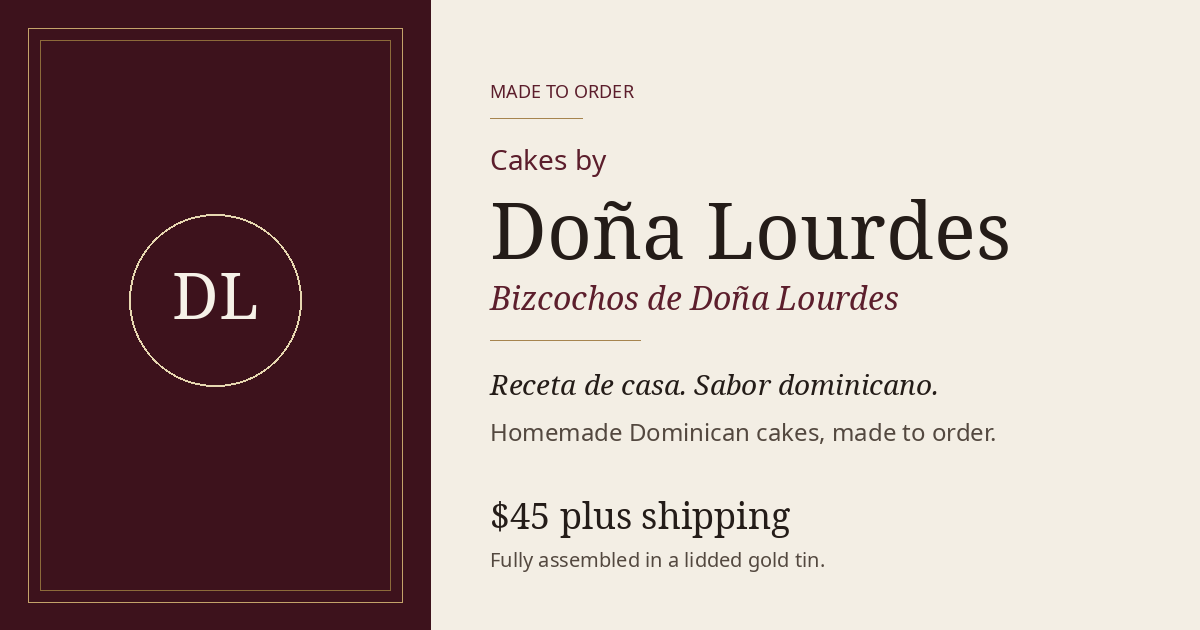
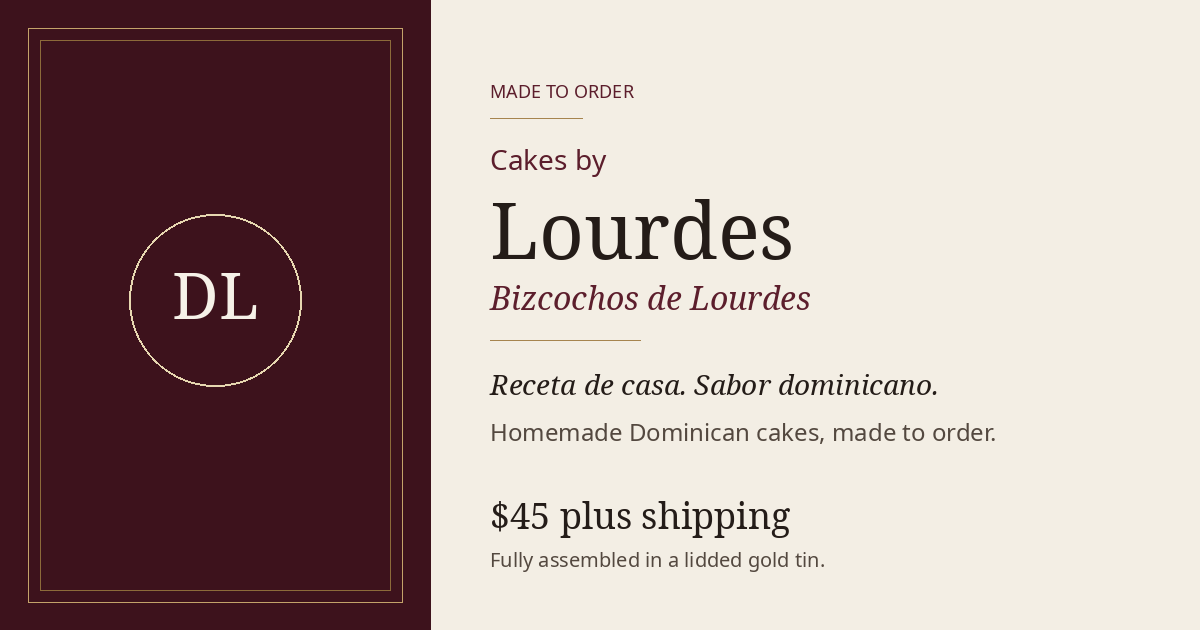
Rename the public brand to Cakes by Lourdes. (#4)
The wordmark, titles, and Bizcochos de Lourdes line use the new brand. Sentences about the baker still say Doña Lourdes.

Changed region(s): [[0.4317, 0.3016, 0.8633, 0.4222], [0.5858, 0.4524, 0.74, 0.5127]]

diff --git a/es/index.html b/es/index.html
@@ -3,7 +3,7 @@
 <head>
   <meta charset="utf-8">
   <meta name="viewport" content="width=device-width, initial-scale=1">
-  <title>Cakes by Doña Lourdes | Bizcochos dominicanos caseros</title>
+  <title>Cakes by Lourdes | Bizcochos dominicanos caseros</title>
   <meta name="description" content="Bizcochos dominicanos caseros, hechos por encargo. Una media libra llega completamente armada en una lata dorada con tapa. $45 más el envío.">
   <link rel="canonical" href="https://cakesbylourdes.salimheyaime.com/es/">
   <link rel="alternate" hreflang="en" href="https://cakesbylourdes.salimheyaime.com/">
@@ -12,19 +12,19 @@
   <meta property="og:type" content="website">
   <meta property="og:locale" content="es_US">
   <meta property="og:locale:alternate" content="en_US">
-  <meta property="og:site_name" content="Cakes by Doña Lourdes">
-  <meta property="og:title" content="Cakes by Doña Lourdes">
+  <meta property="og:site_name" content="Cakes by Lourdes">
+  <meta property="og:title" content="Cakes by Lourdes">
   <meta property="og:description" content="Bizcochos dominicanos caseros, hechos por encargo. Una media libra llega completamente armada en una lata dorada con tapa. $45 más el envío.">
   <meta property="og:url" content="https://cakesbylourdes.salimheyaime.com/es/">
   <meta property="og:image" content="https://cakesbylourdes.salimheyaime.com/og.png">
   <meta property="og:image:width" content="1200">
   <meta property="og:image:height" content="630">
-  <meta property="og:image:alt" content="Cakes by Doña Lourdes, en letra serif sobre una tarjeta color crema y vino. No es una fotografía.">
+  <meta property="og:image:alt" content="Cakes by Lourdes, en letra serif sobre una tarjeta color crema y vino. No es una fotografía.">
   <meta name="twitter:card" content="summary_large_image">
-  <meta name="twitter:title" content="Cakes by Doña Lourdes">
+  <meta name="twitter:title" content="Cakes by Lourdes">
   <meta name="twitter:description" content="Bizcochos dominicanos caseros, hechos por encargo. Una media libra llega completamente armada en una lata dorada con tapa. $45 más el envío.">
   <meta name="twitter:image" content="https://cakesbylourdes.salimheyaime.com/og.png">
-  <meta name="twitter:image:alt" content="Cakes by Doña Lourdes, en letra serif sobre una tarjeta color crema y vino. No es una fotografía.">
+  <meta name="twitter:image:alt" content="Cakes by Lourdes, en letra serif sobre una tarjeta color crema y vino. No es una fotografía.">
   <meta name="theme-color" content="#3d121c">
   <link rel="icon" href="../favicon.svg" type="image/svg+xml">
   <link rel="icon" href="../favicon-32.png" type="image/png" sizes="32x32">
@@ -44,7 +44,7 @@
         <span class="monogram" aria-hidden="true">DL</span>
         <span class="brand-text">
           <span class="brand-kicker"><span class="brand-cakes">Cakes</span> <span class="brand-by">by</span></span>
-          <span class="brand-name">Doña Lourdes</span>
+          <span class="brand-name">Lourdes</span>
         </span>
       </a>
       <nav class="lang-switch" aria-label="Idioma">
@@ -76,9 +76,9 @@
           <p class="eyebrow">Solo entrega y envío</p>
           <h1 id="hero-title">
             <span class="h1-kicker"><span class="h1-cakes">Cakes</span> <span class="h1-by">by</span></span>
-            <span class="h1-name">Doña<br>Lourdes</span>
+            <span class="h1-name">Lourdes</span>
           </h1>
-          <p class="hero-es">Bizcochos de Doña Lourdes</p>
+          <p class="hero-es">Bizcochos de Lourdes</p>
           <div class="rule rule-start" aria-hidden="true"><span></span></div>
           <p class="tagline">
             <span>Receta de casa. Sabor dominicano.</span>
@@ -250,8 +250,8 @@
 
   <footer class="site-footer">
     <div class="wrap footer-inner">
-      <p class="footer-brand">Cakes by Doña Lourdes</p>
-      <p class="footer-es">Bizcochos de Doña Lourdes</p>
+      <p class="footer-brand">Cakes by Lourdes</p>
+      <p class="footer-es">Bizcochos de Lourdes</p>
       <p class="footer-tag">
         <span>Receta de casa. Sabor dominicano.</span>
         <span>Bizcochos dominicanos caseros, hechos por encargo.</span>
@@ -260,7 +260,7 @@
         <a href="/" hreflang="en" lang="en">English</a>
         <a href="/es/" hreflang="es" lang="es" aria-current="page">Español</a>
       </nav>
-      <p class="legal">© 2026 Cakes by Doña Lourdes</p>
+      <p class="legal">© 2026 Cakes by Lourdes</p>
     </div>
   </footer>
 

diff --git a/index.html b/index.html
@@ -3,7 +3,7 @@
 <head>
   <meta charset="utf-8">
   <meta name="viewport" content="width=device-width, initial-scale=1">
-  <title>Cakes by Doña Lourdes | Homemade Dominican Cakes</title>
+  <title>Cakes by Lourdes | Homemade Dominican Cakes</title>
   <meta name="description" content="Homemade Dominican cakes, made to order. A media libra bizcocho arrives fully assembled in a lidded gold tin. $45 plus shipping.">
   <link rel="canonical" href="https://cakesbylourdes.salimheyaime.com/">
   <link rel="alternate" hreflang="en" href="https://cakesbylourdes.salimheyaime.com/">
@@ -12,19 +12,19 @@
   <meta property="og:type" content="website">
   <meta property="og:locale" content="en_US">
   <meta property="og:locale:alternate" content="es_US">
-  <meta property="og:site_name" content="Cakes by Doña Lourdes">
-  <meta property="og:title" content="Cakes by Doña Lourdes">
+  <meta property="og:site_name" content="Cakes by Lourdes">
+  <meta property="og:title" content="Cakes by Lourdes">
   <meta property="og:description" content="Homemade Dominican cakes, made to order. A media libra bizcocho arrives fully assembled in a lidded gold tin. $45 plus shipping.">
   <meta property="og:url" content="https://cakesbylourdes.salimheyaime.com/">
   <meta property="og:image" content="https://cakesbylourdes.salimheyaime.com/og.png">
   <meta property="og:image:width" content="1200">
   <meta property="og:image:height" content="630">
-  <meta property="og:image:alt" content="Cakes by Doña Lourdes, set in serif type on a cream and wine card. No photograph.">
+  <meta property="og:image:alt" content="Cakes by Lourdes, set in serif type on a cream and wine card. No photograph.">
   <meta name="twitter:card" content="summary_large_image">
-  <meta name="twitter:title" content="Cakes by Doña Lourdes">
+  <meta name="twitter:title" content="Cakes by Lourdes">
   <meta name="twitter:description" content="Homemade Dominican cakes, made to order. A media libra bizcocho arrives fully assembled in a lidded gold tin. $45 plus shipping.">
   <meta name="twitter:image" content="https://cakesbylourdes.salimheyaime.com/og.png">
-  <meta name="twitter:image:alt" content="Cakes by Doña Lourdes, set in serif type on a cream and wine card. No photograph.">
+  <meta name="twitter:image:alt" content="Cakes by Lourdes, set in serif type on a cream and wine card. No photograph.">
   <meta name="theme-color" content="#3d121c">
   <link rel="icon" href="favicon.svg" type="image/svg+xml">
   <link rel="icon" href="favicon-32.png" type="image/png" sizes="32x32">
@@ -44,7 +44,7 @@
         <span class="monogram" aria-hidden="true">DL</span>
         <span class="brand-text">
           <span class="brand-kicker"><span class="brand-cakes">Cakes</span> <span class="brand-by">by</span></span>
-          <span class="brand-name">Doña Lourdes</span>
+          <span class="brand-name">Lourdes</span>
         </span>
       </a>
       <nav class="lang-switch" aria-label="Language">
@@ -76,9 +76,9 @@
           <p class="eyebrow">Delivery and shipping only</p>
           <h1 id="hero-title">
             <span class="h1-kicker"><span class="h1-cakes">Cakes</span> <span class="h1-by">by</span></span>
-            <span class="h1-name">Doña<br>Lourdes</span>
+            <span class="h1-name">Lourdes</span>
           </h1>
-          <p class="hero-es" lang="es">Bizcochos de Doña Lourdes</p>
+          <p class="hero-es" lang="es">Bizcochos de Lourdes</p>
           <div class="rule rule-start" aria-hidden="true"><span></span></div>
           <p class="tagline">
             <span lang="es">Receta de casa. Sabor dominicano.</span>
@@ -250,8 +250,8 @@
 
   <footer class="site-footer">
     <div class="wrap footer-inner">
-      <p class="footer-brand">Cakes by Doña Lourdes</p>
-      <p class="footer-es" lang="es">Bizcochos de Doña Lourdes</p>
+      <p class="footer-brand">Cakes by Lourdes</p>
+      <p class="footer-es" lang="es">Bizcochos de Lourdes</p>
       <p class="footer-tag">
         <span lang="es">Receta de casa. Sabor dominicano.</span>
         <span>Homemade Dominican cakes, made to order.</span>
@@ -260,7 +260,7 @@
         <a href="/" hreflang="en" lang="en" aria-current="page">English</a>
         <a href="/es/" hreflang="es" lang="es">Español</a>
       </nav>
-      <p class="legal">© 2026 Cakes by Doña Lourdes</p>
+      <p class="legal">© 2026 Cakes by Lourdes</p>
     </div>
   </footer>
 

diff --git a/404.html b/404.html
@@ -3,8 +3,8 @@
 <head>
   <meta charset="utf-8">
   <meta name="viewport" content="width=device-width, initial-scale=1">
-  <title>Page not found | Cakes by Doña Lourdes</title>
-  <meta name="description" content="This page is not part of Cakes by Doña Lourdes.">
+  <title>Page not found | Cakes by Lourdes</title>
+  <meta name="description" content="This page is not part of Cakes by Lourdes.">
   <link rel="icon" href="/favicon.svg" type="image/svg+xml">
   <link rel="preconnect" href="https://fonts.googleapis.com">
   <link rel="preconnect" href="https://fonts.gstatic.com" crossorigin>
@@ -76,7 +76,7 @@
   <main>
     <p class="mark" aria-hidden="true">DL</p>
     <h1>Page not found</h1>
-    <p class="es" lang="es">Cakes by Doña Lourdes</p>
+    <p class="es" lang="es">Cakes by Lourdes</p>
     <p class="note">This page is not part of the site.</p>
     <p><a href="/">Return home</a></p>
   </main>

diff --git a/README.md b/README.md
@@ -1,6 +1,6 @@
-# Cakes by Doña Lourdes
+# Cakes by Lourdes
 
-Static one-page website for Cakes by Doña Lourdes, a homemade, special-order Dominican cake brand. Delivery and shipping only. No storefront. One cake: a media libra bizcocho that arrives fully assembled in a lidded gold tin.
+Static one-page website for Cakes by Lourdes, a homemade, special-order Dominican cake brand. Delivery and shipping only. No storefront. One cake: a media libra bizcocho that arrives fully assembled in a lidded gold tin.
 
 Custom domain: https://cakesbylourdes.salimheyaime.com
 
